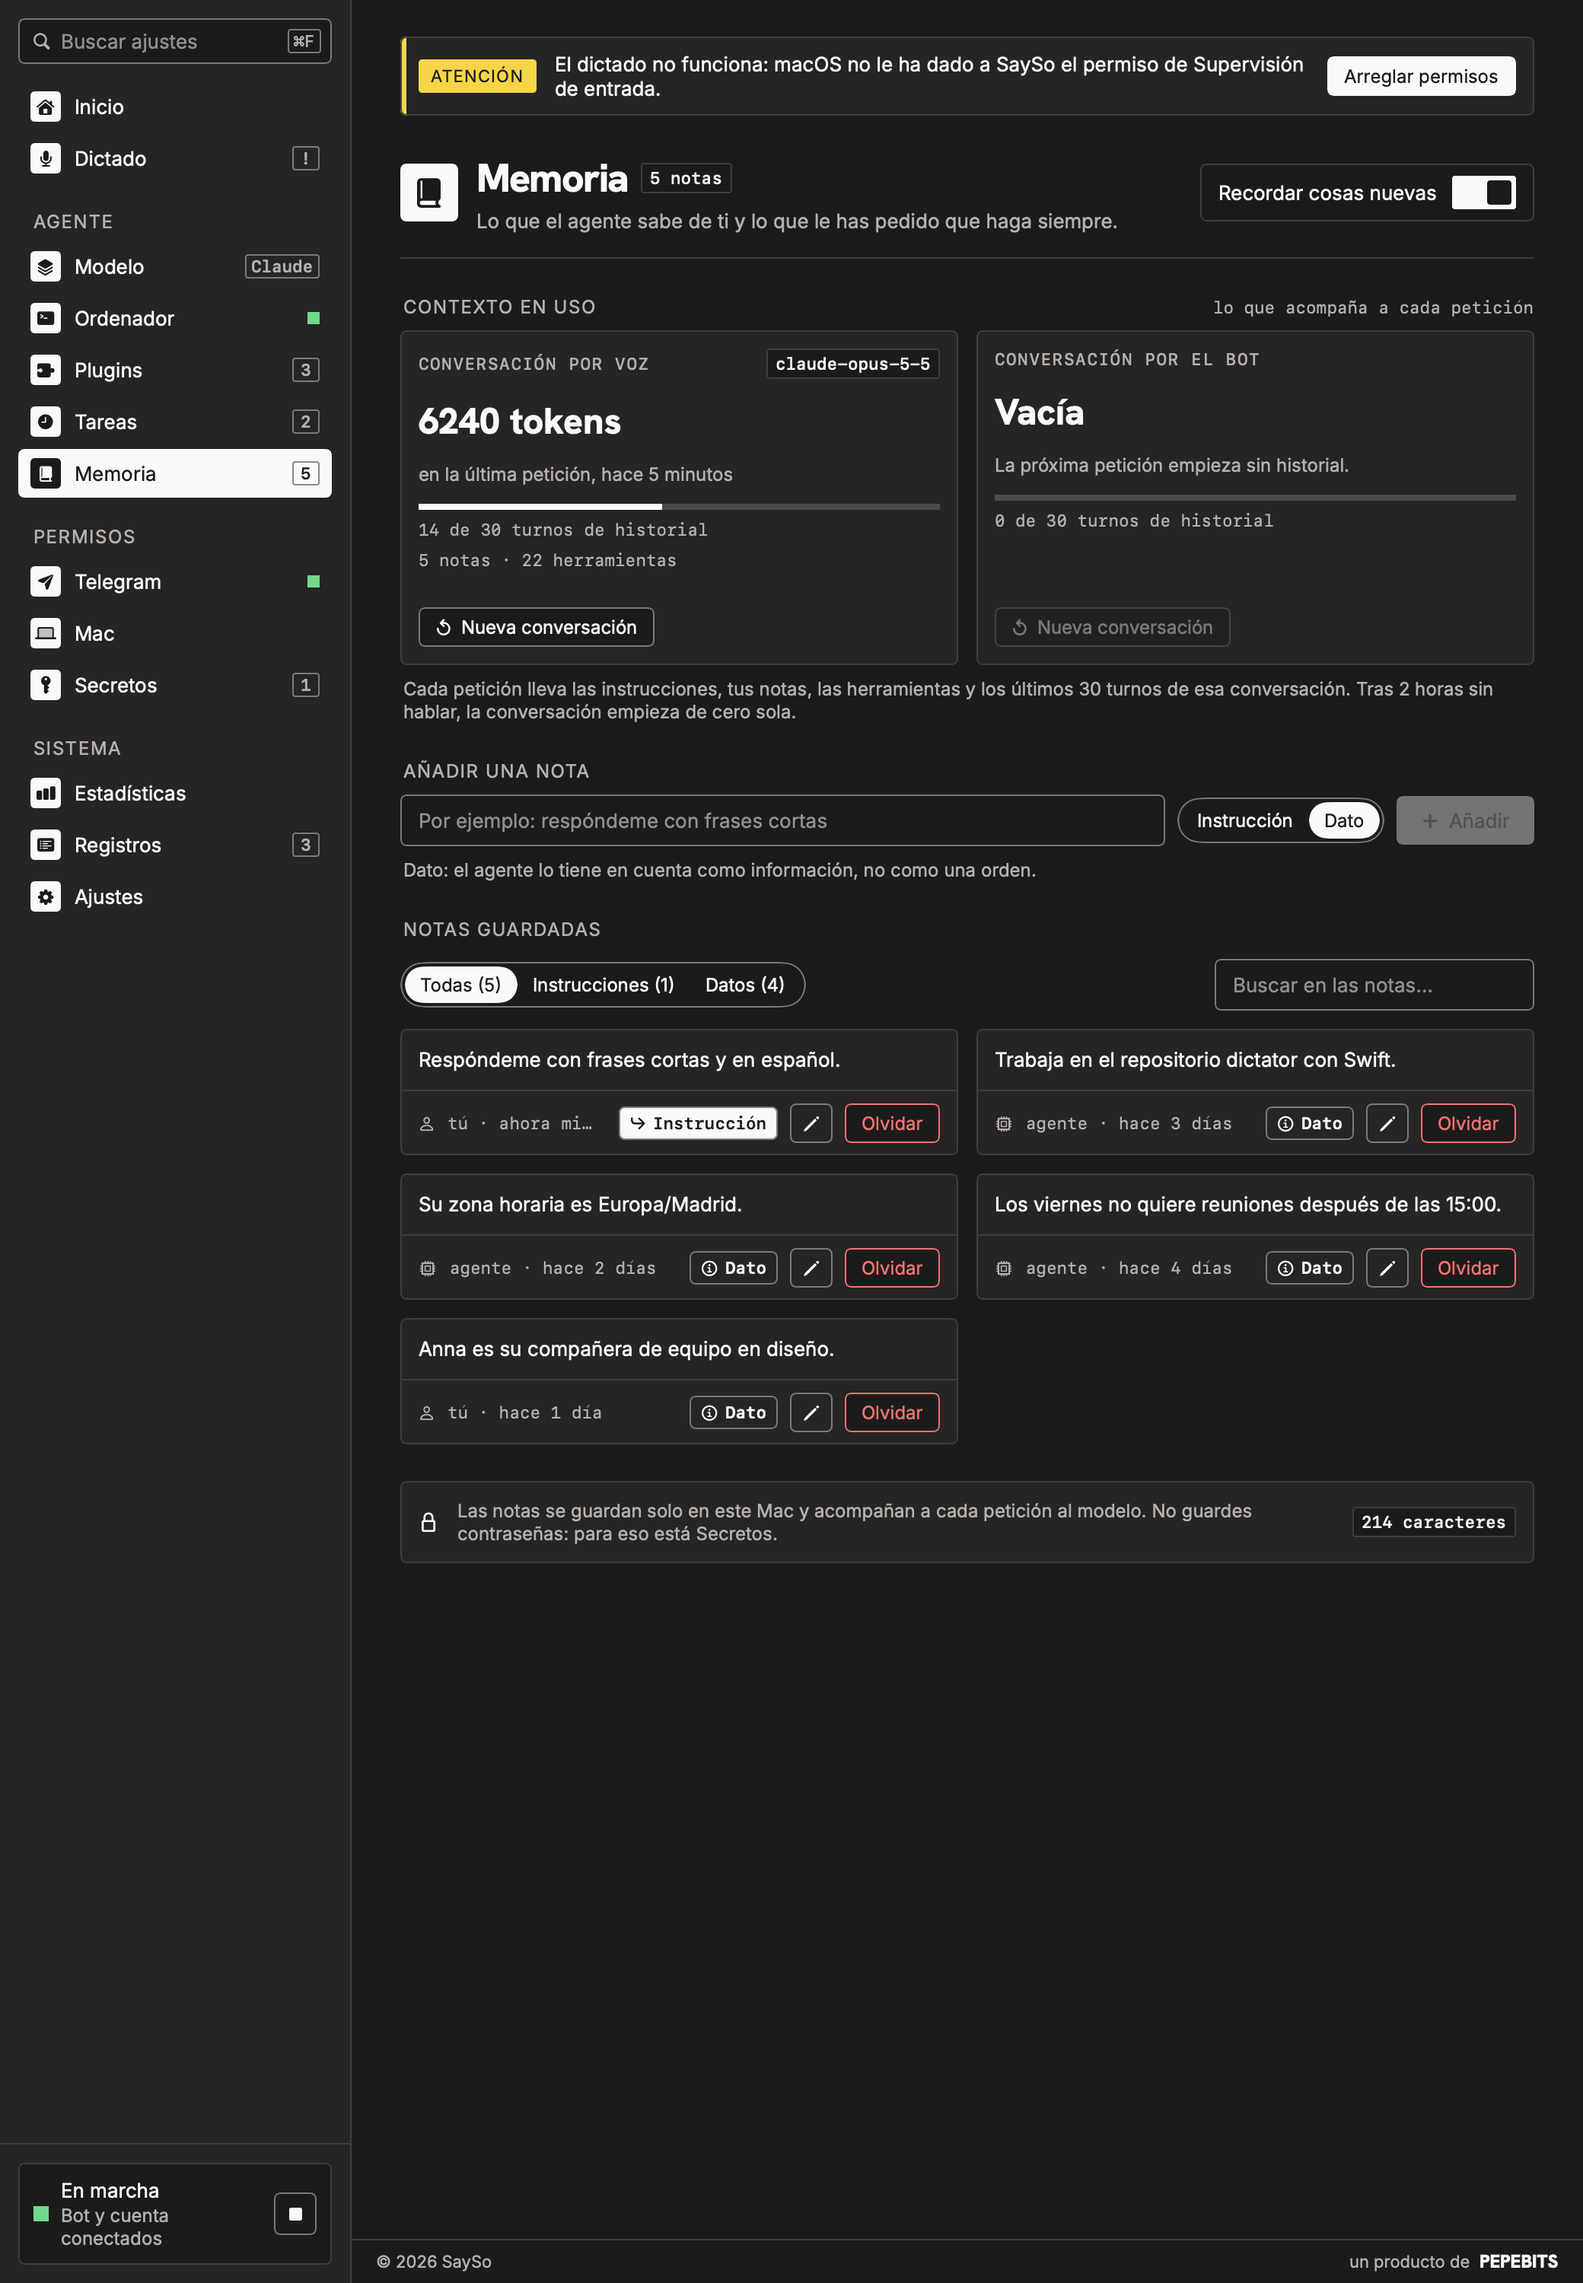
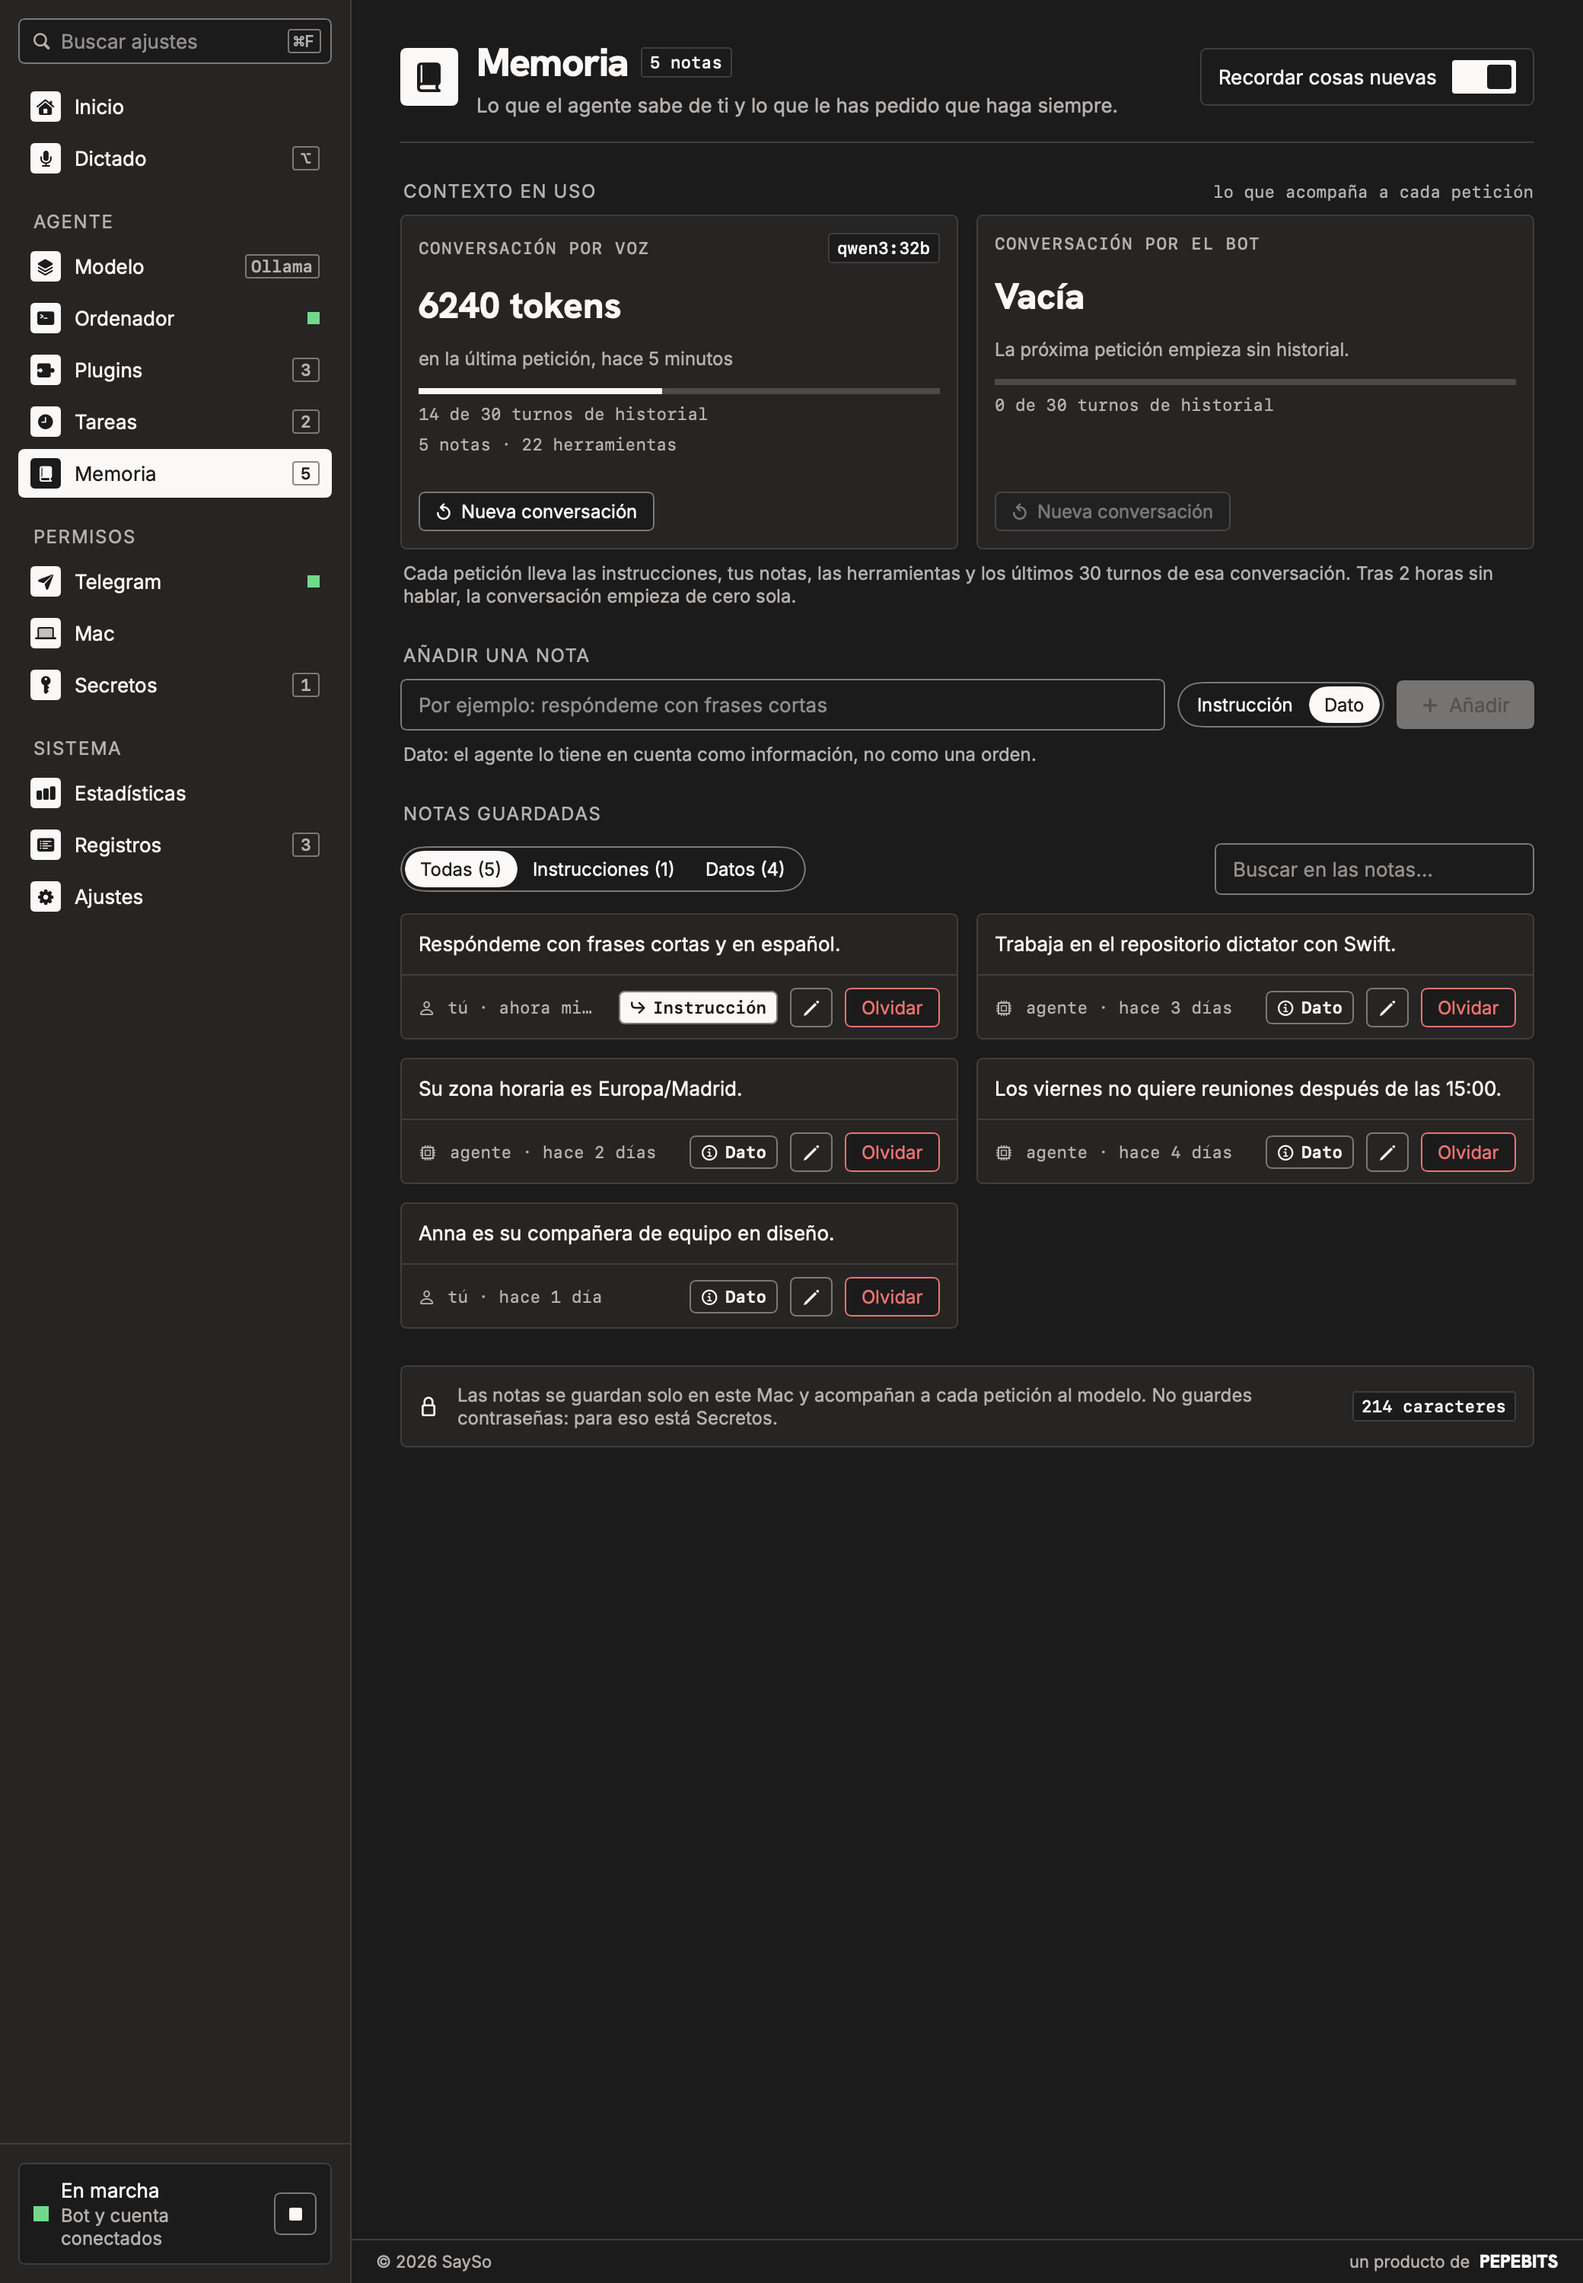
docs: refresh screenshots with neutral demo data and add English ones

diff --git a/Sources/SaySoUI/Previews.swift b/Sources/SaySoUI/Previews.swift
@@ -136,7 +136,7 @@ enum PreviewData {
         m.pairingCode = "482913"
         m.requestsToday = 122
         m.openAtLogin = true
-        m.systemPermissions = [.microphone: true, .accessibility: true, .inputMonitoring: false]
+        m.systemPermissions = [.microphone: true, .accessibility: true, .inputMonitoring: true]
         m.transcriberStatus = "Descargando 40 %"
         let claude = ProviderAccount(name: "Claude", kind: .anthropic,
                                      baseURL: URL(string: "https://api.anthropic.com")!,
@@ -145,8 +145,8 @@ enum PreviewData {
         let ollama = ProviderAccount(name: "Ollama", kind: .openAICompatible,
                                      baseURL: URL(string: "http://localhost:11434/v1")!,
                                      fullModel: "qwen3:32b", fastModel: "qwen3:4b", keychainKey: nil)
-        m.accounts = [claude, ollama]
-        m.activeAccountID = claude.id
+        m.accounts = [ollama, claude]
+        m.activeAccountID = ollama.id
         m.rules = [TelegramAction.sendMessages: .ask, MacScript.volume.action: .allow]
         m.telegramActivity = [
             ActivityEntry(id: 1, date: Date().addingTimeInterval(-300), action: TelegramAction.sendMessages,
@@ -217,7 +217,7 @@ enum PreviewData {
                                 lastActivity: Date().addingTimeInterval(-300),
                                 usage: ContextUsage(date: Date().addingTimeInterval(-300), inputTokens: 6240,
                                                     outputTokens: 180, measured: true, turns: 14, notes: 5,
-                                                    tools: 22, model: "claude-opus-5-5")),
+                                                    tools: 22, model: "qwen3:32b")),
             ConversationContext(chatID: "418000000", turnsInWindow: 0, windowLimit: 30,
                                 lastActivity: nil, usage: nil),
         ]

diff --git a/Sources/SaySoUI/HomeScreen.swift b/Sources/SaySoUI/HomeScreen.swift
@@ -127,7 +127,8 @@ struct HomeScreen: View {
         }
     }
 
-    static let version = Bundle.main.object(forInfoDictionaryKey: "CFBundleShortVersionString") as? String ?? "0.2.0"
+    static let version = Bundle.main.bundleIdentifier == "com.pepebits.sayso"
+        ? (Bundle.main.object(forInfoDictionaryKey: "CFBundleShortVersionString") as? String ?? "0.2.0") : "0.2.0"
 
     // MARK: Módulos
 
